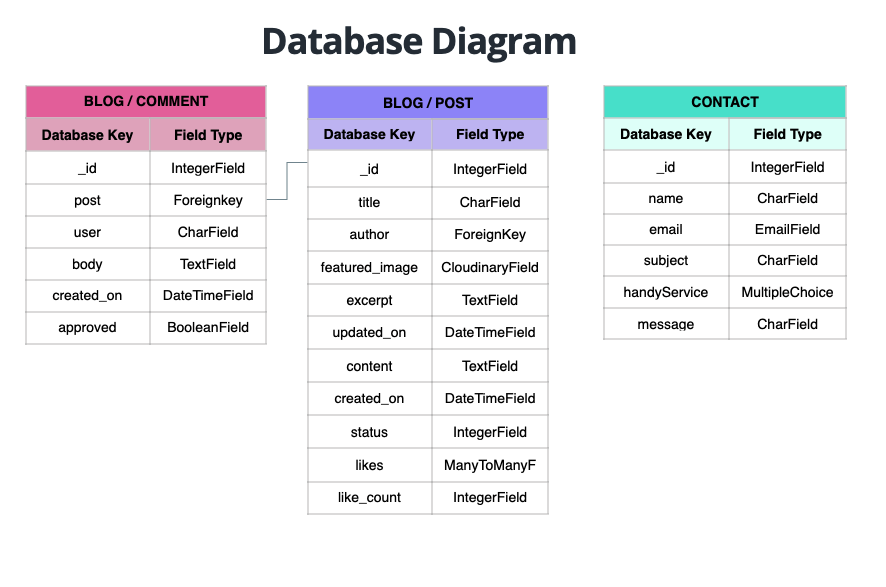
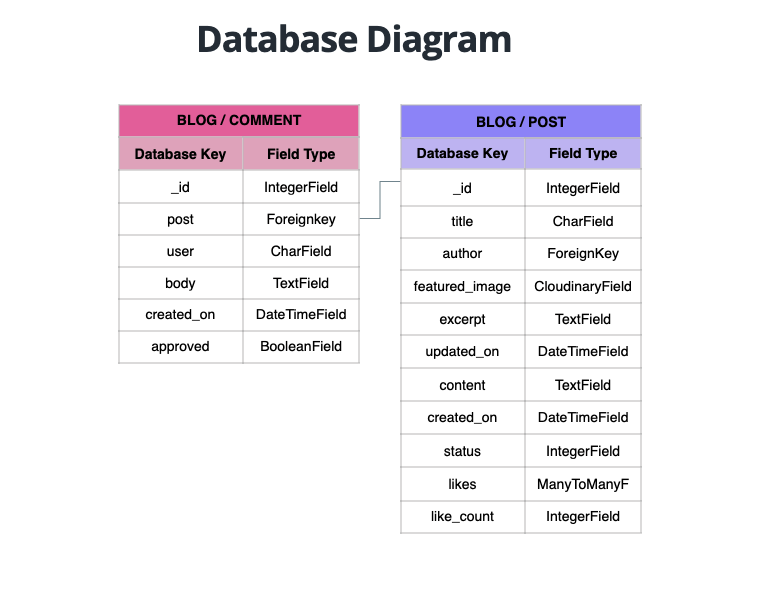
Doc(README.md): Cleanded up and removed unused information

Changed region(s): [[0.0303, 0.0307, 0.971, 0.9199], [0.6675, 0.8279, 0.6979, 0.8586]]

diff --git a/README.md b/README.md
@@ -114,21 +114,6 @@ PostgreSQL was used when deployed through Heroku. The Data Model below was creat
 | Created On      | created_on     | DateTimeField       | auto_now_add=True,                                                           |
 | Approved        | approved       | BooleanField        | default=False                                                                |
 
-<br>
-
-### Contact App
-
-<br>
-
-#### Contact Model
-
-| Name            | Database Key   | Field Type          | Validation                                                                   |
-| --------------- | -------------- | --------------------| -----------------------------------------------------------------------------|
-| Name            | name           | CharField           | required=True, max_length=90                                                 | 
-| Email           | email          | EmailField          | required=True                                                                |
-| Subject         | subject        | CharField           | required=True, max_length=40                                                 |
-| Handy Service   | handyService   | MultipleChoiceField | required=True,widget=forms.CheckboxSelectMultiple,choices=HANDY_SERVICES,    |
-| Message         | message        | CharField           | required=True, widget=forms.Textarea(attrs={"rows":4))                       |
 
 <br>
 
@@ -477,7 +462,7 @@ The blog management are only accessible to the admin of the website. The admin m
 - Amount of comments from the blog page is not shown - Not fixed
 - Testimonial carousell indicators doesnt float within the testimonial card on smaller devices - Indicators removed - carousell fixed
 - When running CSS validator there is alot of warnings depending on the full bootstrap theme choosen. - Not fixed
-- I had issues with making the contact post - Fixed.
+- I had issues with making the contact form post due to Internal server error - Fixed.
 - All through I had many issues to make it work as I planned for in the beginning. The main reason for that depends on that I choosed to go with a template instead of doing it all by my self from scratch. I discoverd during the way that it took me much more time to try to change the prewritten scripts then it would have done if I just started from scratch. All though it has been a good experience with alot of lessons.
 
 
